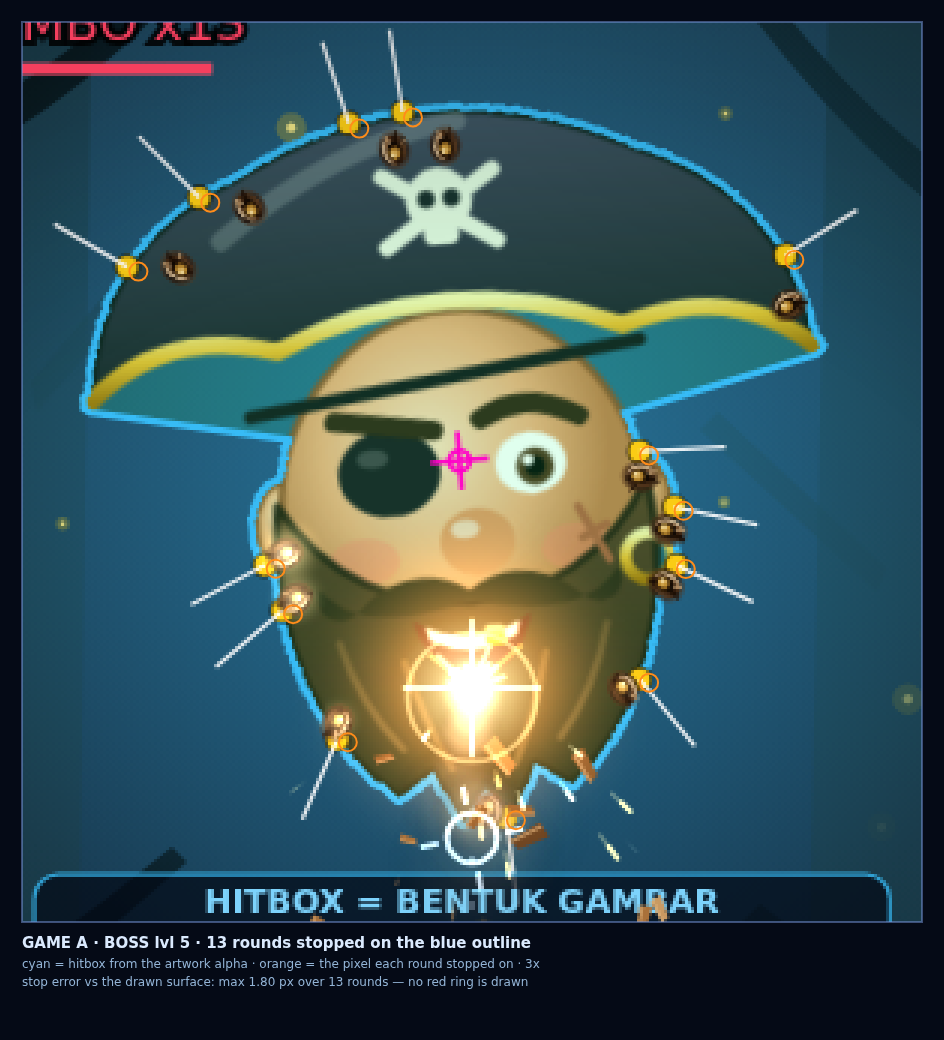
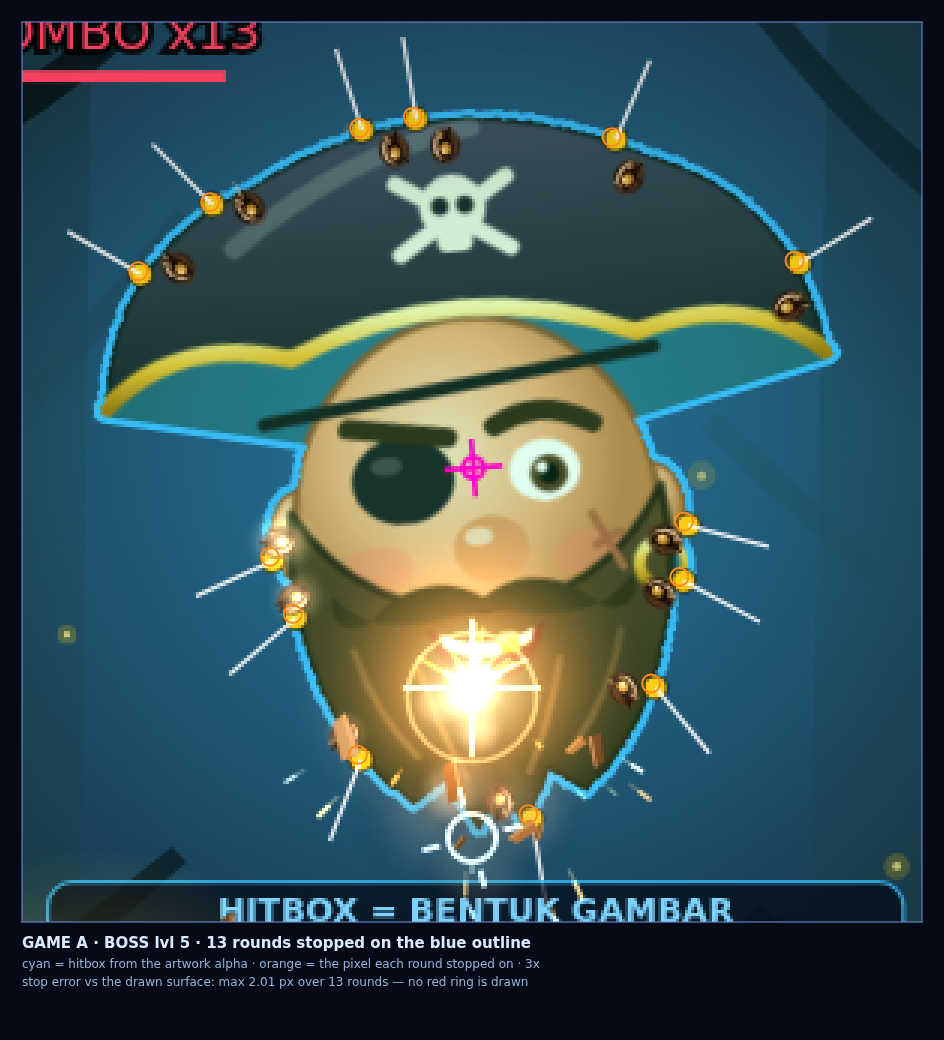
fix(sga): a round keeps stopping on the outline while the head laughs over it
stepProj now walks the exact substep the round just made (the caller hands over
its length), tests the current position as well as the ones behind it, and — when
the boss' laugh/rage has grown the drawing over the round in mid-flight — steps
further back until the path is outside the art again before closing in. The
result is checked without tolerance: every stuck round's mask pixel is ink with
empty space right beside it (max 1 mask px), never a stride inside the body.

diff --git a/tests/gunhit-boss-hitbox-silhouette.test.ts b/tests/gunhit-boss-hitbox-silhouette.test.ts
@@ -8,6 +8,7 @@ import { HeadArt } from '../src/games/perfect-shot/play/HeadArt';
 import { levelConfig } from '../src/games/perfect-shot/play/levels';
 import { installSilentAudio } from '../tools/supportAudioSilent';
 import { setGunEffect, setGunVariant } from '../src/games/gunhit/game/art/gunVariants';
+import { INK_ALPHA } from '../src/games/gunhit/game/Game';
 
 const globals = globalThis as unknown as Record<string, any>;
 globals.Path2D ??= Path2D;
@@ -317,22 +318,56 @@ test('the hitbox is the drawn edge: outside it is empty space', async () => {
 });
 
 /**
- * The round has to stop on the pixel it *met*, not a stride deeper. Every
- * substep covers up to 7 px, so a walk that closes in from the wrong end leaves
- * the round buried inside the body — off the blue line by the width of its own
- * stride. The check is exact and angle-free: on the stuck pixel the strict ink
- * test says "boss", and an empty pixel is one mask pixel away.
+ * The round has to stop on the pixel it *met*, not a stride deeper. The game
+ * walks its substep (<= 7 px) from the outside in at 1 px, so the pixel a round
+ * reports must be an *outline* pixel: strict ink with empty space right beside
+ * it. A round left a stride inside the body is ink on every side for 7-8 mask
+ * pixels — this measures that distance, no tolerance picking.
  */
-function edgeGap(game: Record<string, any>, lx: number, ly: number) {
+function edgeDistance(game: Record<string, any>, lx: number, ly: number) {
   const mask = game.ensureArtMask();
   assert.ok(mask, 'the stage has an artwork mask');
-  for (let rr = 0.9; rr <= 3.2; rr += 0.45) {
-    for (let k = 0; k < 36; k++) {
-      const a = (k * Math.PI * 2) / 36;
-      if (!game.artSolidAtLocal(mask, lx + Math.cos(a) * rr, ly + Math.sin(a) * rr)) return rr;
+  const R = game.level.radius as number;
+  const u = Math.floor(((lx / R / mask.span) + 1) * 0.5 * mask.size);
+  const v = Math.floor(((ly / R / mask.span) + 1) * 0.5 * mask.size);
+  const ink = (x: number, y: number) => {
+    if (x < 0 || y < 0 || x >= mask.size || y >= mask.size) return false;
+    return mask.alpha[y * mask.size + x] > INK_ALPHA;
+  };
+  if (!ink(u, v)) return -1;
+  for (let d = 1; d <= 12; d++) {
+    for (let dy = -d; dy <= d; dy++) {
+      for (let dx = -d; dx <= d; dx++) {
+        if (Math.max(Math.abs(dx), Math.abs(dy)) !== d) continue;
+        if (!ink(u + dx, v + dy)) return d;
+      }
     }
   }
-  return Number.POSITIVE_INFINITY;
+  return 99;
+}
+
+/**
+ * Fire one round and measure the very frame it sticks: the head keeps swaying,
+ * breathing and laughing afterwards, so the drawing moves under a stuck round —
+ * the impact has to be judged against the art as it was when the round met it.
+ */
+function shootAndMeasure(game: Record<string, any>, theta: number) {
+  game.rot = -Math.PI / 2 - theta;
+  game.items = [];
+  game.projs = [];
+  game.ammoLeft = 99;
+  game.cooldown = 0;
+  game.reloadT = 0;
+  game.aiming = false;
+  game.charging = false;
+  game.press();
+  game.onRelease();
+  for (let i = 0; i < 60 && game.projs.length; i++) {
+    game.update(1 / 60);
+    const it = (game.items as any[]).find((x) => x.type === 'bullet');
+    if (it) return { it, edge: edgeDistance(game, it.px, it.py) };
+  }
+  return null;
 }
 
 test('a fast round stops on the first pixel of the drawing it meets', async () => {
@@ -340,16 +375,18 @@ test('a fast round stops on the first pixel of the drawing it meets', async () =
     const { game, kind } = await bossStage(5);
     game.setWeapon(weapon);
     let hits = 0;
+    let worst = 0;
     for (let deg = 0; deg < 360; deg += 6) {
-      const it = shootAtLocal(game, (Math.PI * deg) / 180);
-      if (!it) continue;
+      const shot = shootAndMeasure(game, (Math.PI * deg) / 180);
+      if (!shot) continue;
       hits++;
+      const { it, edge } = shot;
+      assert.ok(edge > 0 && edge <= 2,
+        `${kind}/${weapon} ${deg}deg: the round sits on the outline (${edge < 0 ? 'not on the drawing' : `${edge} px from empty space`})`);
+      if (edge > 1) worst = Math.max(worst, edge);
       const world = game.artToWorld(it.px, it.py);
       assert.ok(game.artHitAt(world.x, world.y),
-        `${kind}/${weapon} ${deg}deg: the round is on the drawing`);
-      const gap = edgeGap(game, it.px, it.py);
-      assert.ok(gap <= 1.8,
-        `${kind}/${weapon} ${deg}deg: the round sits on the edge, not a stride inside it (${gap.toFixed(2)} px)`);
+        `${kind}/${weapon} ${deg}deg: the stuck round is on the boss`);
     }
     assert.ok(hits >= 15, `${kind}/${weapon}: the fast rounds reached the head (${hits})`);
     game.destroy();

diff --git a/src/games/gunhit/game/Game.ts b/src/games/gunhit/game/Game.ts
@@ -996,7 +996,7 @@ export function buildMaskSurface(mask: ArtMask, steps = 720): Path2D | null {
  * player sees is *exactly* the line a round stops on: no anti-aliased halo, no
  * 3x3 neighbourhood, nothing a few pixels outside the artwork's own edge.
  */
-const INK_ALPHA = 96;
+export const INK_ALPHA = 96;
 
 /** Is this mask pixel part of the drawing? */
 function maskSolid(mask: ArtMask, x: number, y: number): boolean {
@@ -5687,7 +5687,7 @@ export class Game {
     this.raf = requestAnimationFrame(this.loop);
   };
 
-  private stepProj(p: Proj): StepRes {
+  private stepProj(p: Proj, stride = 0): StepRes {
     // A floating star can be collected by a straight shot before it reaches the target.
     if (this.state === 'play' && this.star
       && Math.hypot(p.x - this.star.x, p.y - this.star.y) < this.star.r + this.weapon.half * 0.5) {
@@ -5739,10 +5739,21 @@ export class Game {
       const speed = Math.hypot(p.vx, p.vy) || 1;
       const ux = p.vx / speed;
       const uy = p.vy / speed;
-      const span = Math.min(10, speed * 0.02);
+      // The caller hands over the exact length of the substep it just moved, so
+      // the walk starts at the round's previous position and not a pixel past it.
+      const span = Math.min(10, Math.max(1, stride || speed * 0.02));
       let hit: { r: number; x: number; y: number } | null = head ? this.artHitAt(head.x, head.y) : null;
-      for (let d = span; !hit && d >= 0; d -= 1) {
-        hit = this.artHitAt(p.x - ux * d, p.y - uy * d);
+      // The head laughs, rages and breathes: while a round is in the air the
+      // drawing can grow *over* the spot it had already left, so the far end of
+      // the stride is ink too. Step further back until the path is outside the
+      // art again, then close in — the round still stops on the outline it met.
+      let from = span;
+      const limit = Math.min(48, span + 24);
+      while (from < limit && this.artHitAt(p.x - ux * from, p.y - uy * from)) from += 1;
+      for (let d = from; !hit; d -= 1) {
+        const back = Math.max(0, d);
+        hit = this.artHitAt(p.x - ux * back, p.y - uy * back);
+        if (back === 0) break;
       }
       if (hit) {
         return {
@@ -7654,6 +7665,9 @@ export class Game {
       if (p.ghostAim) p.vx = (CX - p.x) * Math.max(0, -p.vy) / Math.max(1, p.y - ghostTargetY);
       const dist = Math.hypot(p.vx, p.vy) * ps;
       const steps = Math.max(1, Math.ceil(dist / 7));
+      // Exactly how far one substep moves the round: the boss walk uses it to
+      // find the pixel the round met instead of the pixel it ended up in.
+      const stepLen = Math.hypot(p.vx, p.vy) * ps / steps;
       let r: StepRes = { res: 'none' };
       for (let k = 0; k < steps; k++) {
         const dy = (p.vy * ps) / steps;
@@ -7665,7 +7679,7 @@ export class Game {
           p.x += (CX - p.x) * fraction;
         } else p.x += (p.vx * ps) / steps;
         p.y += dy;
-        r = this.stepProj(p);
+        r = this.stepProj(p, stepLen);
         if (r.res !== 'none') break;
       }
       if (r.res === 'stick') {

diff --git a/tests/gunhit-boss-art-collision.test.ts b/tests/gunhit-boss-art-collision.test.ts
@@ -86,7 +86,8 @@ test('every bullet tests the boss pixels before anything else', () => {
   // the first pixel of the drawing is what stops it — a thin brim can never be
   // stepped over, and the round never sinks a stride deep into the body.
   assert.match(game, /let hit: \{ r: number; x: number; y: number \} \| null = head \? this\.artHitAt\(head\.x, head\.y\) : null;/);
-  assert.match(game, /for \(let d = span; !hit && d >= 0; d -= 1\) \{/);
+  assert.match(game, /for \(let d = from; !hit; d -= 1\) \{/);
+  assert.match(game, /while \(from < limit && this\.artHitAt\(p\.x - ux \* from, p\.y - uy \* from\)\) from \+= 1;/);
   assert.match(game, /local: Math\.atan2\(hit\.y, hit\.x\),/);
   assert.match(game, /px: hit\.x,/);
   assert.match(game, /py: hit\.y,/);
